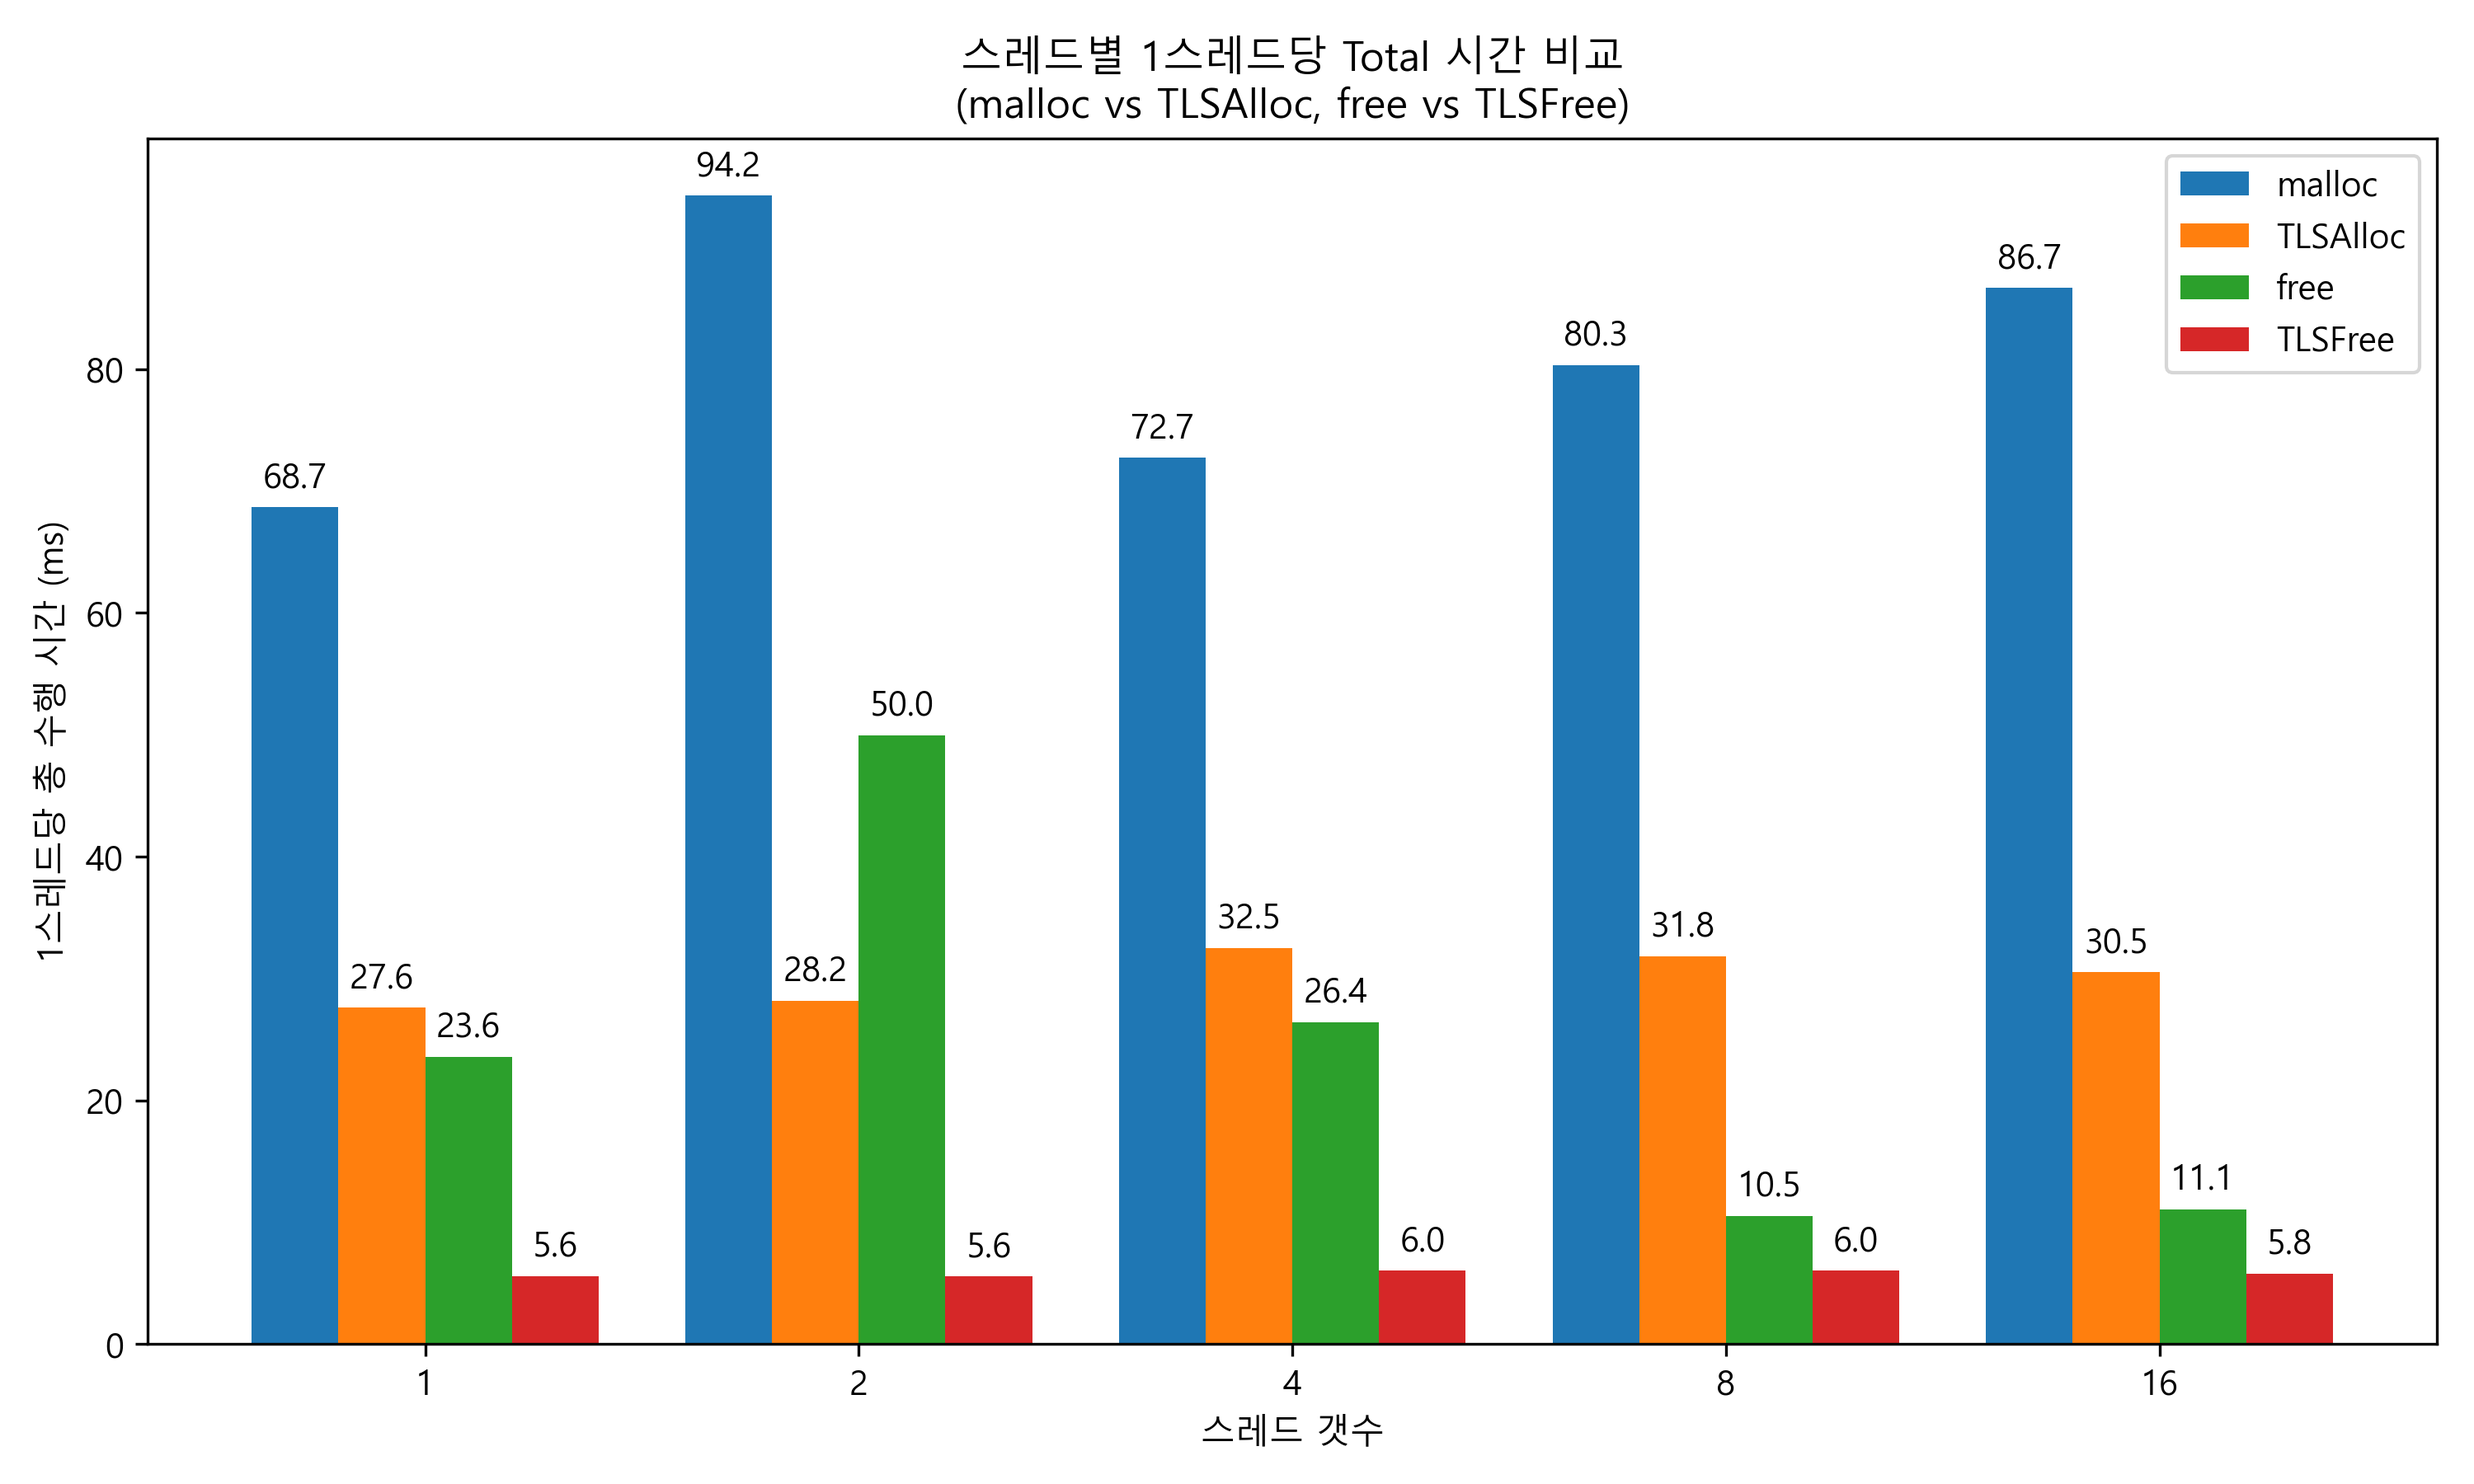
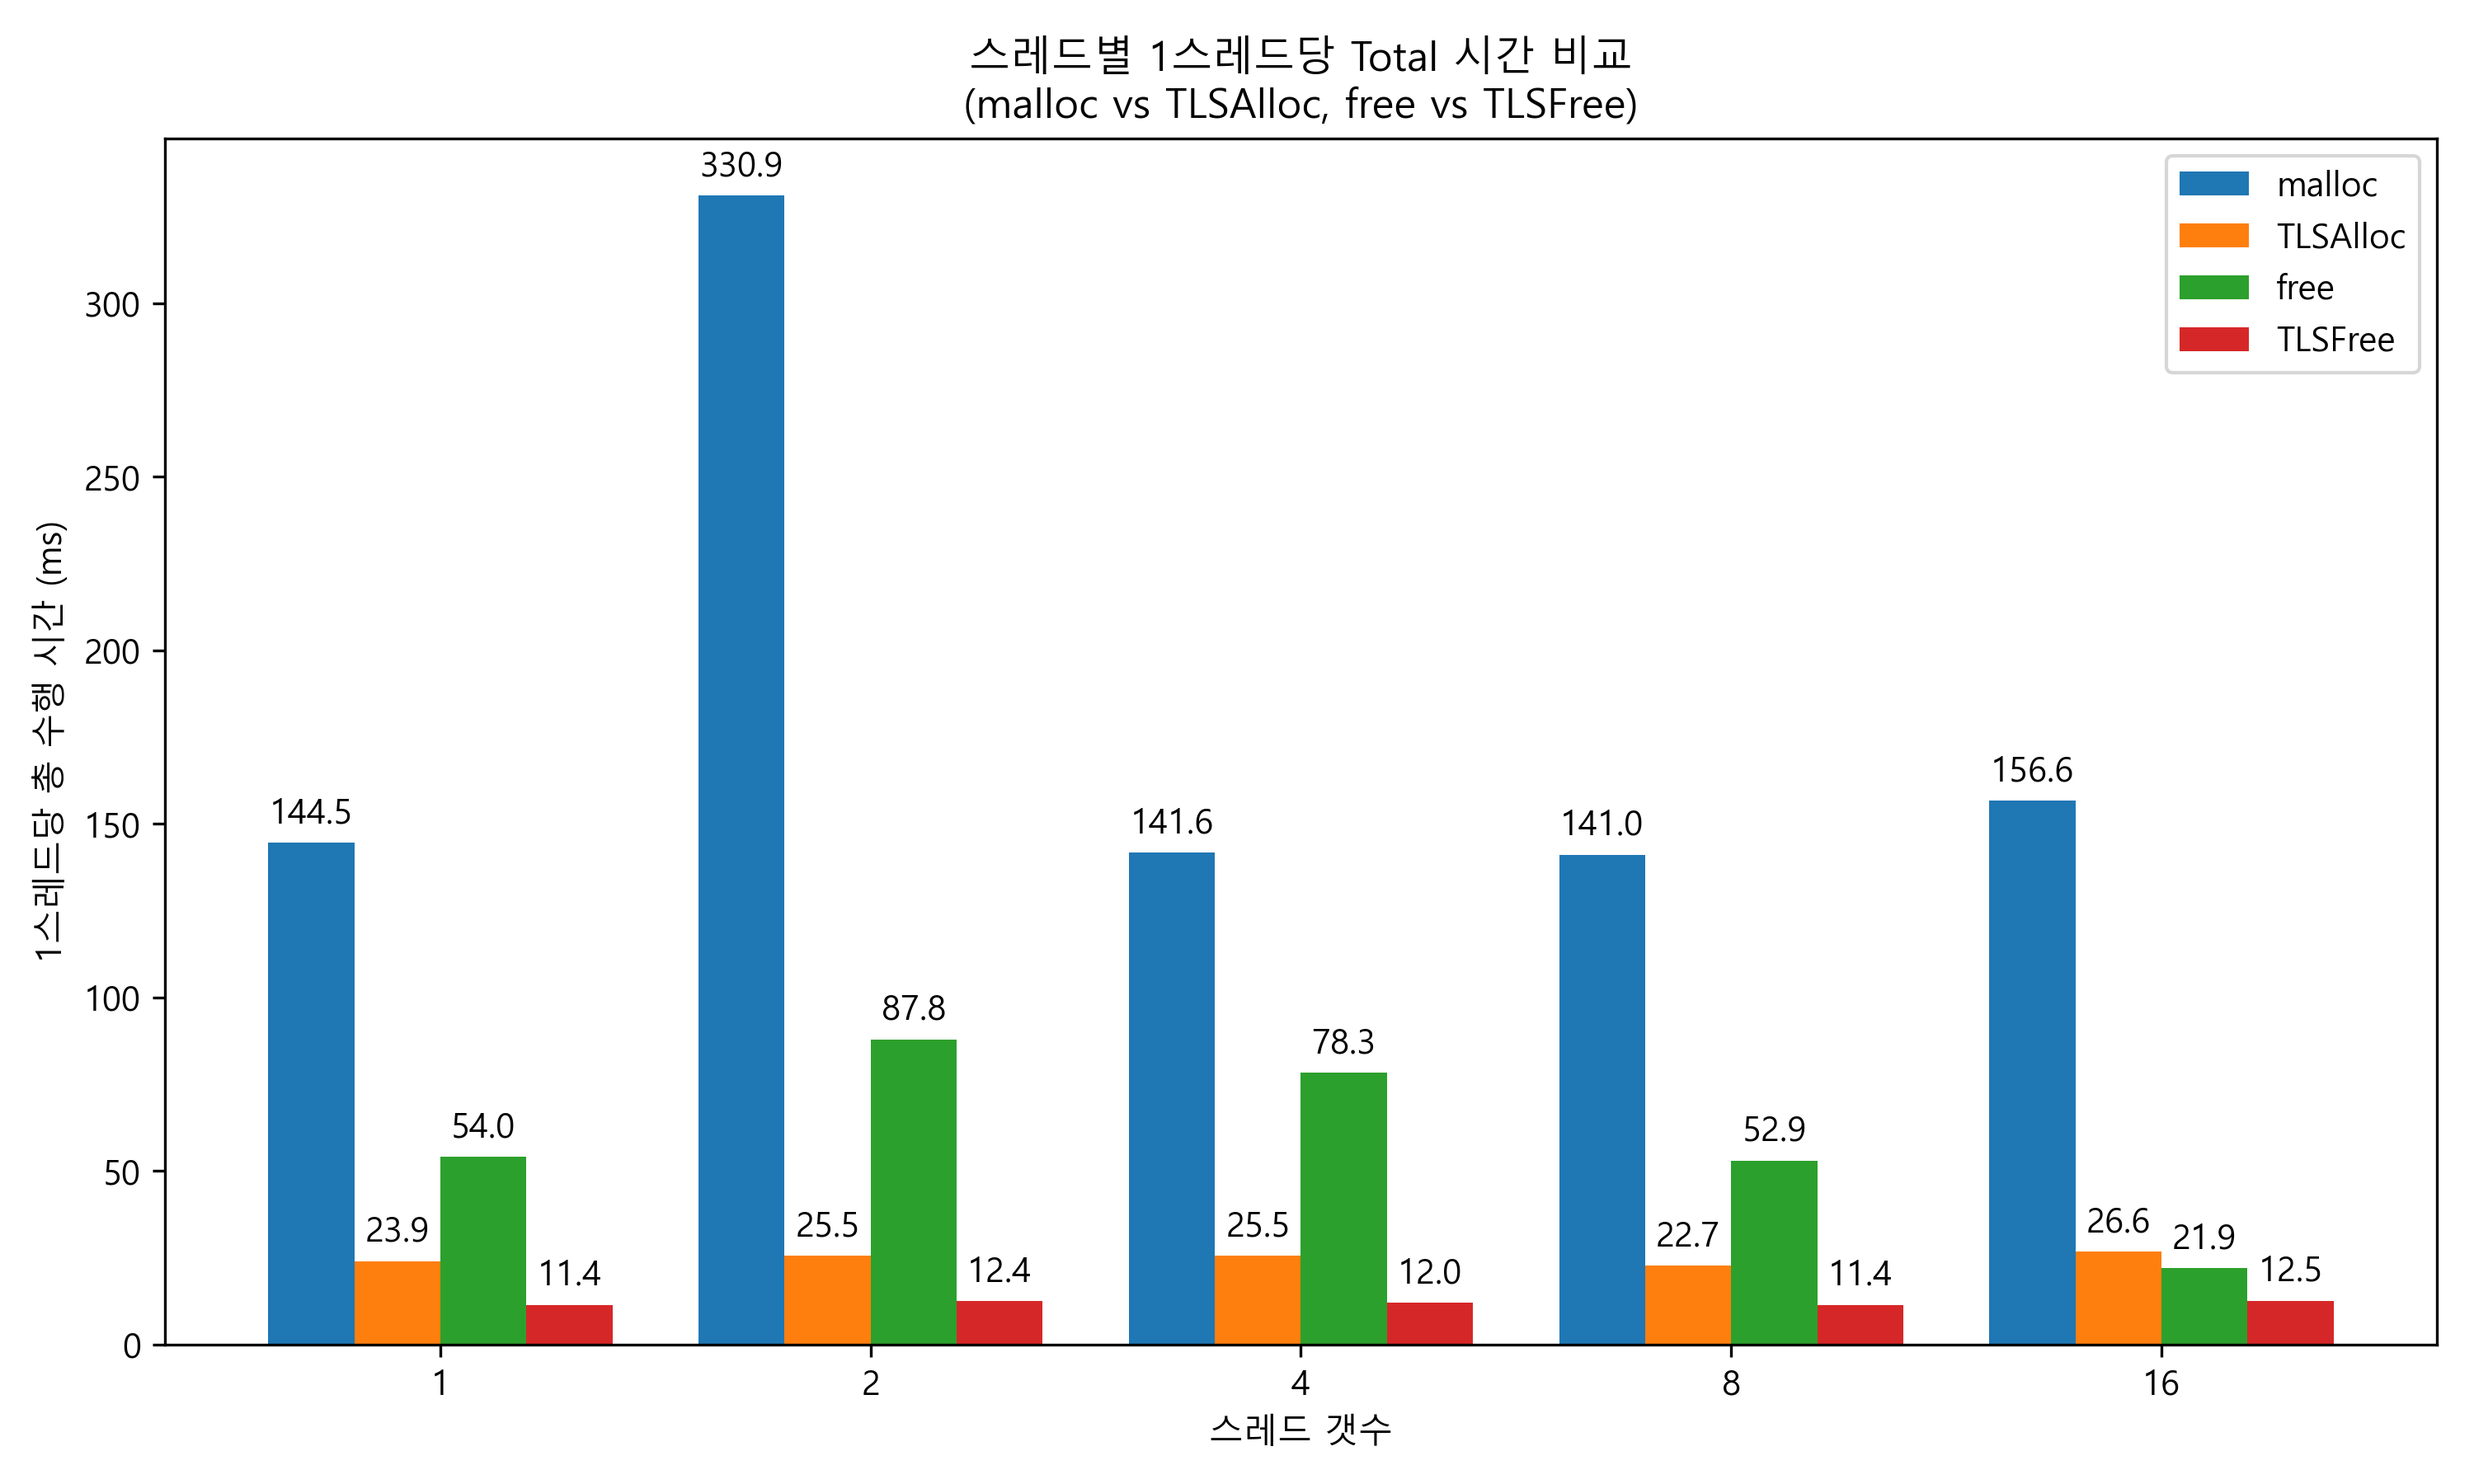
Free 함수에서 메모리를 진짜 해제하고 있었던 버그 수정
성능 측정 결과 예상치와 비슷한 결과가 나옴.

diff --git a/MemoryPool/benchMark.cpp b/MemoryPool/benchMark.cpp
@@ -10,6 +10,8 @@
 #include "Profile.h"
 #include <string>
 
+#define REPEAT_COUNT 200
+
 // 간단한 테스트 구조체
 struct Foo {
     int x[512];
@@ -19,13 +21,13 @@ struct Foo {
 typedef void (*TestFunc)(size_t, int);
 
 //MemoryPool<Foo, true> tlsPool(200000);                        // 전역 풀 인스턴스
-thread_local tlsMemoryPool<Foo, true> tlsPool(200000);      // TLS 풀: 각 스레드별로 독립 인스턴스
+thread_local tlsMemoryPool<Foo, false> tlsPool(200000);      // TLS 풀: 각 스레드별로 독립 인스턴스
 
 // 1) new/delete 테스트
 void testNewDelete(size_t count, int threadCnt) {
-    std::vector<Foo*> v[100];
+    std::vector<Foo*> v[REPEAT_COUNT];
 
-    for (int i = 0; i < 100; ++i)
+    for (int i = 0; i < REPEAT_COUNT; ++i)
     {
         v[i].reserve(count);
     }
@@ -43,7 +45,7 @@ void testNewDelete(size_t count, int threadCnt) {
 
     auto start = std::chrono::high_resolution_clock::now();
 
-    for (int k = 0; k < 100; ++k)
+    for (int k = 0; k < REPEAT_COUNT; ++k)
     {
         Profile pf(alloc);
         for (size_t i = 0; i < count; ++i) {
@@ -51,7 +53,7 @@ void testNewDelete(size_t count, int threadCnt) {
         }
     }
 
-    for (int k = 0; k < 100; ++k)
+    for (int k = 0; k < REPEAT_COUNT; ++k)
     {
         Profile pf(free);
         for (Foo* p : v[k]) {
@@ -114,9 +116,9 @@ void testNewDelete(size_t count, int threadCnt) {
 
 // 3) TLS 풀 테스트
 void testTlsPool(size_t count, int threadCnt) {
-    std::vector<Foo*> v[100];
+    std::vector<Foo*> v[REPEAT_COUNT];
 
-    for (int k = 0; k < 100; ++k)
+    for (int k = 0; k < REPEAT_COUNT; ++k)
     {
         v[k].reserve(count);
 
@@ -145,7 +147,7 @@ void testTlsPool(size_t count, int threadCnt) {
 
     auto start = std::chrono::high_resolution_clock::now();
 
-    for (int k = 0; k < 100; ++k)
+    for (int k = 0; k < REPEAT_COUNT; ++k)
     {
         Profile pf(alloc);
         for (size_t i = 0; i < count; ++i) {
@@ -153,7 +155,7 @@ void testTlsPool(size_t count, int threadCnt) {
         }
     }
 
-    for (int k = 0; k < 100; ++k)
+    for (int k = 0; k < REPEAT_COUNT; ++k)
     {
         {
             Profile pf(free);
